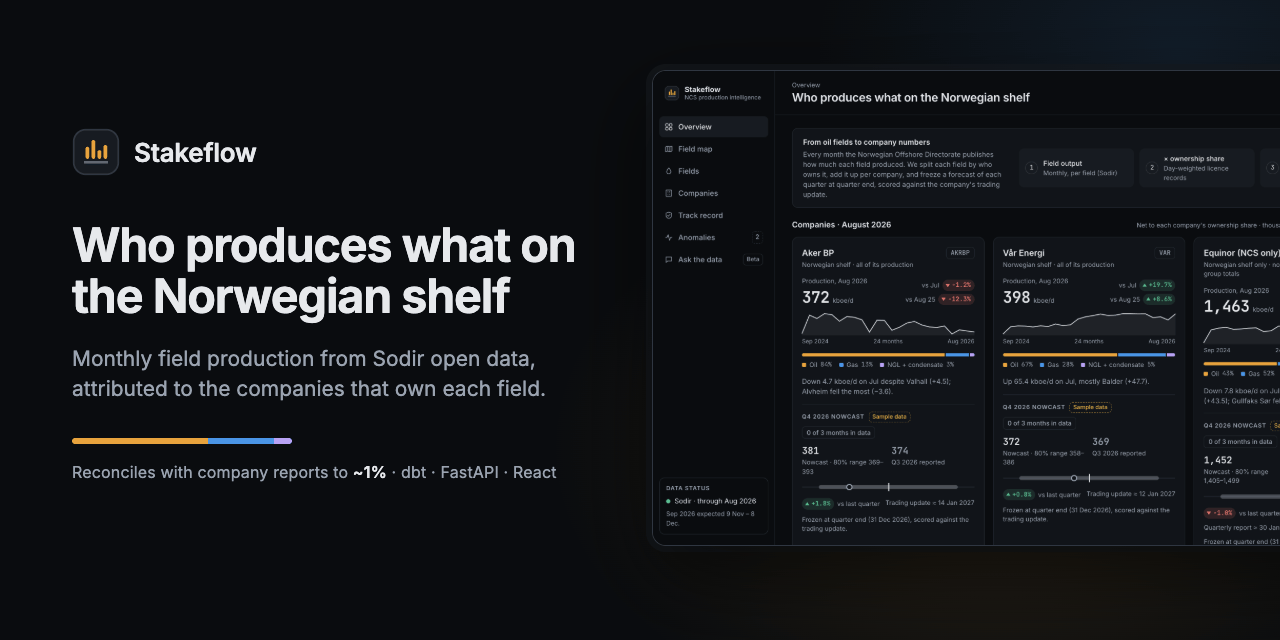
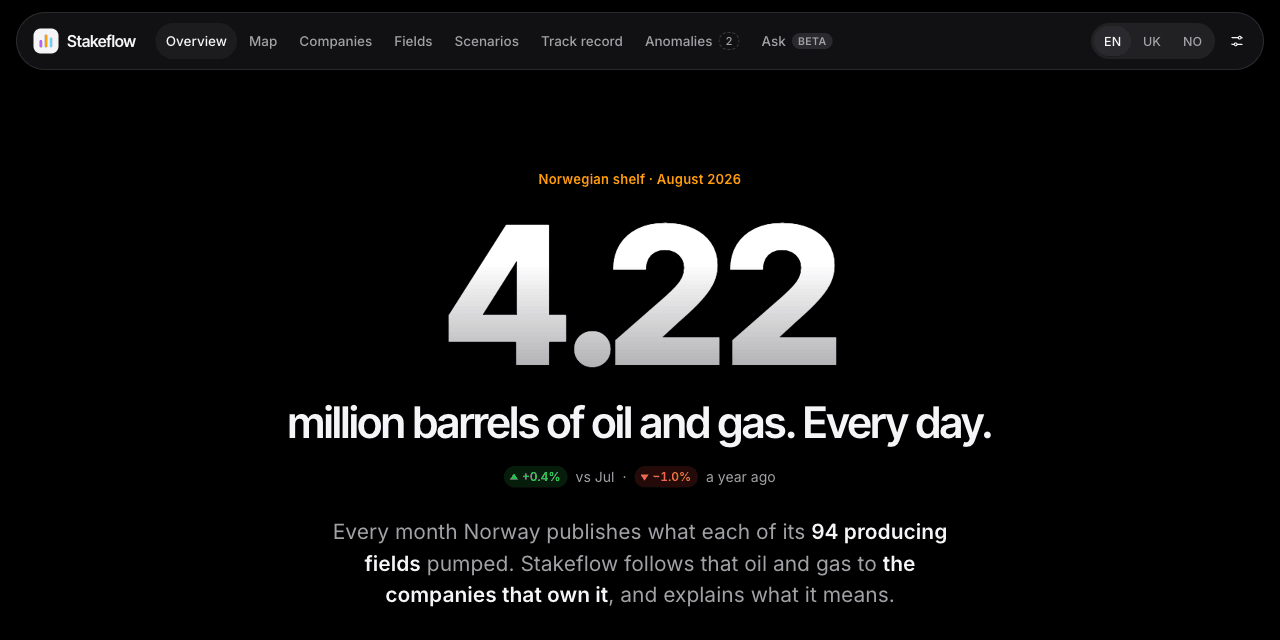
docs: describe Phase 2 in the README and refresh the social preview
Why this change was needed:
The README still listed forecasts, anomalies and Ask as the roadmap and
quoted Phase 1 test counts; the social preview showed the old design.

What changed:
- forecast accuracy from the 45 replayed quarters, per company, against
  the "same as last quarter" guess, including where the model is worse
  (Vår Energi) and that the 80% ranges are too narrow
- architecture: market loaders, Python models, append-only ml schema,
  predictions committed to Git, Claude behind a read-only role
- testing table with current counts (dbt 120, pipeline 139, API 423,
  frontend 228); new design decisions; roadmap rewritten
- social preview taken from the public demo's new landing page

Problem solved:
The repository page matches what the project does today.

diff --git a/README.md b/README.md
@@ -4,7 +4,7 @@
 [![Live demo](https://github.com/plohospalqq/stakeflow/actions/workflows/pages.yml/badge.svg)](https://plohospalqq.github.io/stakeflow/)
 ![Python 3.12](https://img.shields.io/badge/python-3.12-3776AB)
 ![TypeScript strict](https://img.shields.io/badge/TypeScript-strict-3178C6)
-![dbt tests](https://img.shields.io/badge/dbt%20tests-68-FF694B)
+![dbt tests](https://img.shields.io/badge/dbt%20tests-120-FF694B)
 [![Sodir data: NLOD](https://img.shields.io/badge/Sodir%20data-NLOD-2E7D32)](https://data.norge.no/nlod/en/2.0)
 [![License: MIT](https://img.shields.io/badge/license-MIT-blue)](LICENSE)
 
@@ -42,8 +42,23 @@ Reported figures come from the companies' trading updates (sources in
 [`reported_quarterly_production.csv`](pipeline/dbt/seeds/reported_quarterly_production.csv)).
 Vår Energi's figures include fuel gas it burns rather than sells, so they run above Sodir's
 saleable volumes; its Q1 2024 gap (−10%) is the Neptune acquisition, which the company counted
-from 1 January while the licence transfer is dated 31 January. Field volumes match Sodir's own published numbers exactly (checked against the live
-Sodir API, and by a dbt test for every field and month).
+from 1 January while the licence transfer is dated 31 January. Field volumes match Sodir's own
+published numbers exactly (checked against the live Sodir API, and by a dbt test for every field
+and month).
+
+**Forecasts.** Quarterly production nowcasts (Arps decline per field × ownership), replayed for
+45 past quarters using only data Sodir had published by each quarter end, scored against the
+first figure each company published and against the simple guess "same as last quarter":
+
+| Company | Model error | Simple guess | Comment |
+|---|---:|---:|---|
+| Aker BP | **2.6%** | 3.5% | model better |
+| Equinor (E&P Norway) | **3.6%** | 4.7% | model better |
+| Vår Energi | 9.1% | 8.1% | worse: new fields (Balder X, Johan Castberg) are invisible to a decline model until they produce |
+
+The 80% ranges hold the actual figure 62% of the time, so they are too narrow, and the app says
+so. Live predictions are frozen at each quarter end and committed to `predictions/`
+by a GitHub Action ([freeze-predictions.yml](.github/workflows/freeze-predictions.yml)); the first one (Q4 2026) is scored when the January trading updates appear.
 
 ## What you can do in the app
 
@@ -52,6 +67,10 @@ Sodir API, and by a dbt test for every field and month).
 | **Company detail.** Net production by field with day-weighted ownership, Sodir vs reported by quarter, a revenue estimate with the formula visible. ![Company](frontend/docs/screenshots/company-aker-bp-dark.png) | **Field detail.** History by product, the full ownership timeline (e.g. Lundin → Aker BP, 30 Jun 2022), facts and a CSV export. ![Field](frontend/docs/screenshots/field-johan-sverdrup-dark.png) |
 | **Field map.** Every field on MapLibre: size = production, colour = oil vs gas, highlight a company's fields, keyboard-accessible list. ![Map](frontend/docs/screenshots/map-dark.png) | **Track record.** The Sodir-vs-reported comparison, and every quarterly nowcast scored against the company's report and a simple guess, live predictions and backtests kept apart. ![Track record](frontend/docs/screenshots/track-record-light.png) |
 
+Also: a **landing page** that explains the shelf in plain words, a **Scenarios** page (what a
+share price might do if oil, gas, production or the dollar moved: a transparent OLS model with
+its fit and uncertainty, never a forecast), **anomalies** (months a field produced far off its
+own trend), **English, Ukrainian and Norwegian**, and a **Simple words / Expert** switch.
 Dark and light themes, boe/d or Sm³ o.e., and a phone layout with a bottom tab bar
 ([all screenshots](frontend/docs/screenshots/)). With the local stack every number is live. The
 public demo carries the real forecasts, nowcasts, prediction log, anomalies and prices; share
@@ -119,14 +138,21 @@ flowchart LR
     subgraph Dagster
         S{{sensor: new month?<br/>every 6 h}} --> R[8 raw assets<br/>+ row-count / freshness checks]
         C{{monthly schedule<br/>fallback}} --> R
-        R --> D[dbt build<br/>19 models · 3 seeds · 68 tests]
+        M{{daily: Brent, TTF, FX,<br/>share price files}} --> R
+        R --> D[dbt build<br/>marts]
+        D --> ML[Python: Arps forecasts,<br/>nowcasts, anomalies,<br/>scenario models]
+        ML --> D2[dbt build<br/>ml marts · 120 tests total]
     end
 
     Sodir -->|paged GeoJSON, WGS84| R
     R --> RAW[(raw<br/>append-only snapshots)]
     D --> STG[(staging)]
     D --> MARTS[(marts)]
+    ML --> MLDB[(ml<br/>append-only)]
+    D2 --> MARTS
+    MLDB -.->|quarter end| GIT[predictions/ in Git]
     MARTS --> API[FastAPI<br/>read-only, OpenAPI]
+    API <-->|text to SQL,<br/>read-only role| LLM[Claude]
     API --> NGINX[nginx<br/>/api proxy]
     NGINX --> UI[React · ECharts · MapLibre]
 ```
@@ -242,9 +268,10 @@ Frontend details: [`frontend/README.md`](frontend/README.md).
 | Sodir client | Paging, offsets, HTML and `{"error"}` responses with HTTP 200, endless-loop guard; recorded real responses, no network |
 | Raw store | Append-only snapshots, all-or-nothing load when the row count does not match Sodir |
 | Dagster | Code location loads; dbt models sit downstream of the raw assets; row-drop and freshness checks |
-| dbt (68 tests) | o.e. matches Sodir for every field-month; attributed volumes sum back to field volumes; shares cover 100% while a field is owned; no overlapping ownership intervals; valid geometries; "Equinor (NCS only)" label; keys and relationships |
-| API | Products add up to o.e.; boe/d formula; 404/422 on bad input; literal (non-wildcard) search; reconciliation; ownership history; GeoJSON |
-| Frontend (227 tests) | Unit maths (boe/d, Sm³), components, every route rendering on mocked data, the live-API mappers on real response shapes, which data is sample in which mode, URL safety, Ask answers never dead-end and only use real tables |
+| dbt (120 tests) | o.e. matches Sodir for every field-month; attributed volumes sum back to field volumes; shares cover 100% while a field is owned; no overlapping ownership intervals; valid geometries; "Equinor (NCS only)" label; keys and relationships |
+| Pipeline (139 tests) | Arps fit recovers known parameters; interval coverage on synthetic data; prediction hashes are deterministic and rows append-only; anomaly rule; OLS recovers known coefficients; market and Euronext parsers on recorded files |
+| API (423 tests) | Products add up to o.e.; boe/d formula; 404/422 on bad input; literal search; reconciliation; ownership history; GeoJSON; caching/304; the SQL guard (DDL, multi-statement, CTE scoping, function allow-list) and the read-only role; scenario contract and clamping; Ask and parsing against a mocked Claude |
+| Frontend (228 tests) | Unit maths (boe/d, Sm³), components, every route rendering on mocked data, the live-API mappers on real response shapes, which data is sample in which mode, URL safety, Ask answers never dead-end and only use real tables |
 | Live demo | `pages.yml` builds the warehouse from live Sodir data (offline snapshot as fallback), runs every dbt test, exports the API's responses and deploys the app plus dbt docs to GitHub Pages |
 | CI | All of the above on every push: lint and tests per project; the warehouse job builds the full dbt project from a 385 KiB offline Sodir snapshot in a PostGIS service; OpenAPI and generated TypeScript types must match; Docker images build |
 
@@ -273,25 +300,33 @@ overflow), with negative API tests (bad parameters, SQL-injection attempts: only
 | Strict CSP, no inline scripts | `script-src 'self'`; only the map tile host is allowed out. Charts need inline style attributes only. |
 | Cache-Control + freshness ETag | Data changes monthly; browsers revalidate cheaply and get 304s until Sodir publishes. |
 | Untrusted URLs filtered twice | Links from third-party data are rendered only if https to a known host (frontend) and Sodir URLs are validated again in dbt staging. |
+| Forecast in Python, scoring in dbt, predictions append-only by trigger | Curve fitting needs scipy; scoring is plain SQL that should be reviewable. A database trigger, not a convention, keeps the prediction log honest; the Git commit is the public timestamp. |
+| Scenario model instead of share-price prediction | A transparent OLS on monthly returns shows sensitivity with its fit and uncertainty; an LLM may only turn free text into the model's inputs, never produce numbers. |
+| Share prices only from the user's own Euronext download | Euronext forbids robots and redistribution, so the pipeline never downloads them, and the public demo never contains them. |
+| Typed i18n dictionaries, no library | Three languages; a missing key is a compile error; plurals and numbers via `Intl`. |
 | Nowcast reframed (see [docs/nowcast-feasibility.md](docs/nowcast-feasibility.md)) | Companies publish production 12–14 days after quarter end; Sodir field data lands 40–69 days after month end. Forecasts are therefore frozen at quarter end and scored against the trading update. |
 
 ## Repository layout
 
 ```
-pipeline/   Dagster + dbt: Sodir client, raw snapshots, sensor, dbt models, seeds and tests
-api/        FastAPI (read-only on marts), OpenAPI contract
+pipeline/   Dagster + dbt: Sodir and market loaders, raw snapshots, sensor, dbt models, seeds,
+            forecasts (Arps, nowcasts), anomalies, scenario models, tests
+api/        FastAPI (read-only on marts), Ask/scenario parsing with Claude, evals, OpenAPI contract
 frontend/   React + TypeScript + Vite + Tailwind + ECharts + MapLibre, nginx image
 infra/      Postgres image (PostGIS) and init SQL
-docs/       Phase 1 plan, nowcast feasibility analysis, frontend spec
+docs/       plans, nowcast feasibility, forecasting method, market data sources and licences
+predictions/ quarter-end predictions committed by the freeze workflow (never edited by hand)
 ```
 
 ## Roadmap
 
-- **Phase 2:** Arps decline-curve forecasts per field and an ML model on top; quarterly
-  production and revenue forecasts for Aker BP and Vår Energi (Brent, TTF), with an
-  append-only predictions table recording when each prediction was made.
-- **Phase 3:** anomaly detection on field production; a text-to-SQL "ask the data" agent with
-  an evaluation set.
+Done: Phase 1 (pipeline, warehouse, API, app) and Phase 2 (forecasts, nowcasts, prediction log,
+prices, anomalies, scenario model, Ask, three languages, live demo). Next:
+
+- Calibrate the forecast ranges (80% nominal, about 62% actual) and detect fields that are about
+  to start producing.
+- Score the first live prediction (Q4 2026) against the January trading updates.
+- Run the Ask evaluation set against Claude once an API key is configured (`make eval`).
 
 ## Data licence
 
